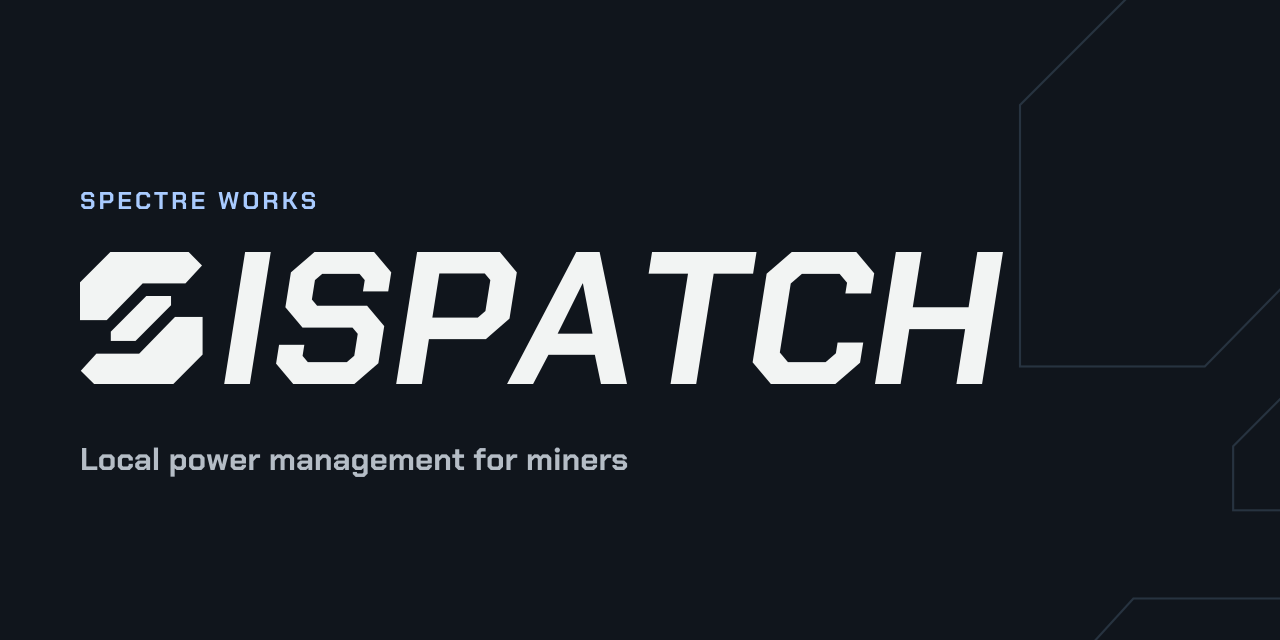
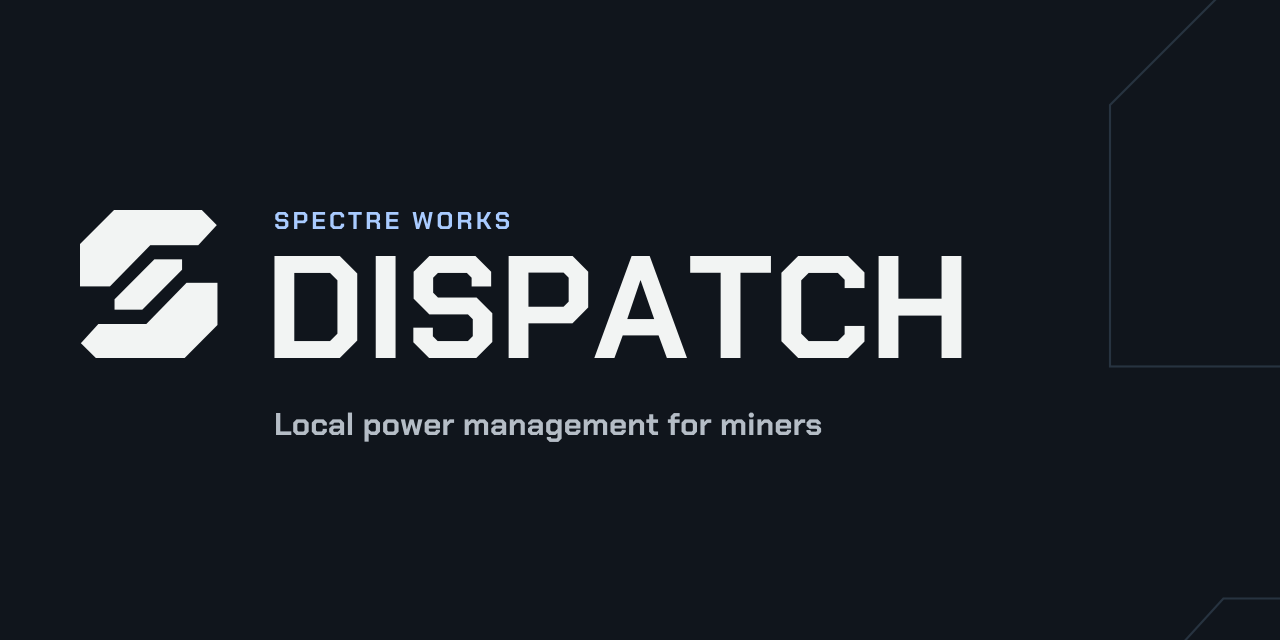
Set the Bridge emblem beside the full DISPATCH name

Changed region(s): [[0.0625, 0.2812, 0.7812, 0.625], [0.0625, 0.625, 0.6562, 0.75]]

diff --git a/assets/brand/README.md b/assets/brand/README.md
@@ -10,8 +10,8 @@ and StartOS package. Regenerate it after updating the mark.
 python3 tools/generate_dispatch_icon.py
 ```
 
-The [README header](dispatch-header.svg) uses Bridge as the initial D with
-forward-slanted Chakra Petch Bold capitals. The lettering is outlined so the
+The [README header](dispatch-header.svg) pairs the Bridge emblem with the full DISPATCH
+name in upright Chakra Petch Bold capitals. The lettering is outlined so the
 lockup renders consistently without a font download.
 
 The [social preview](dispatch-social-preview.png) is a 1280 × 640 PNG.
